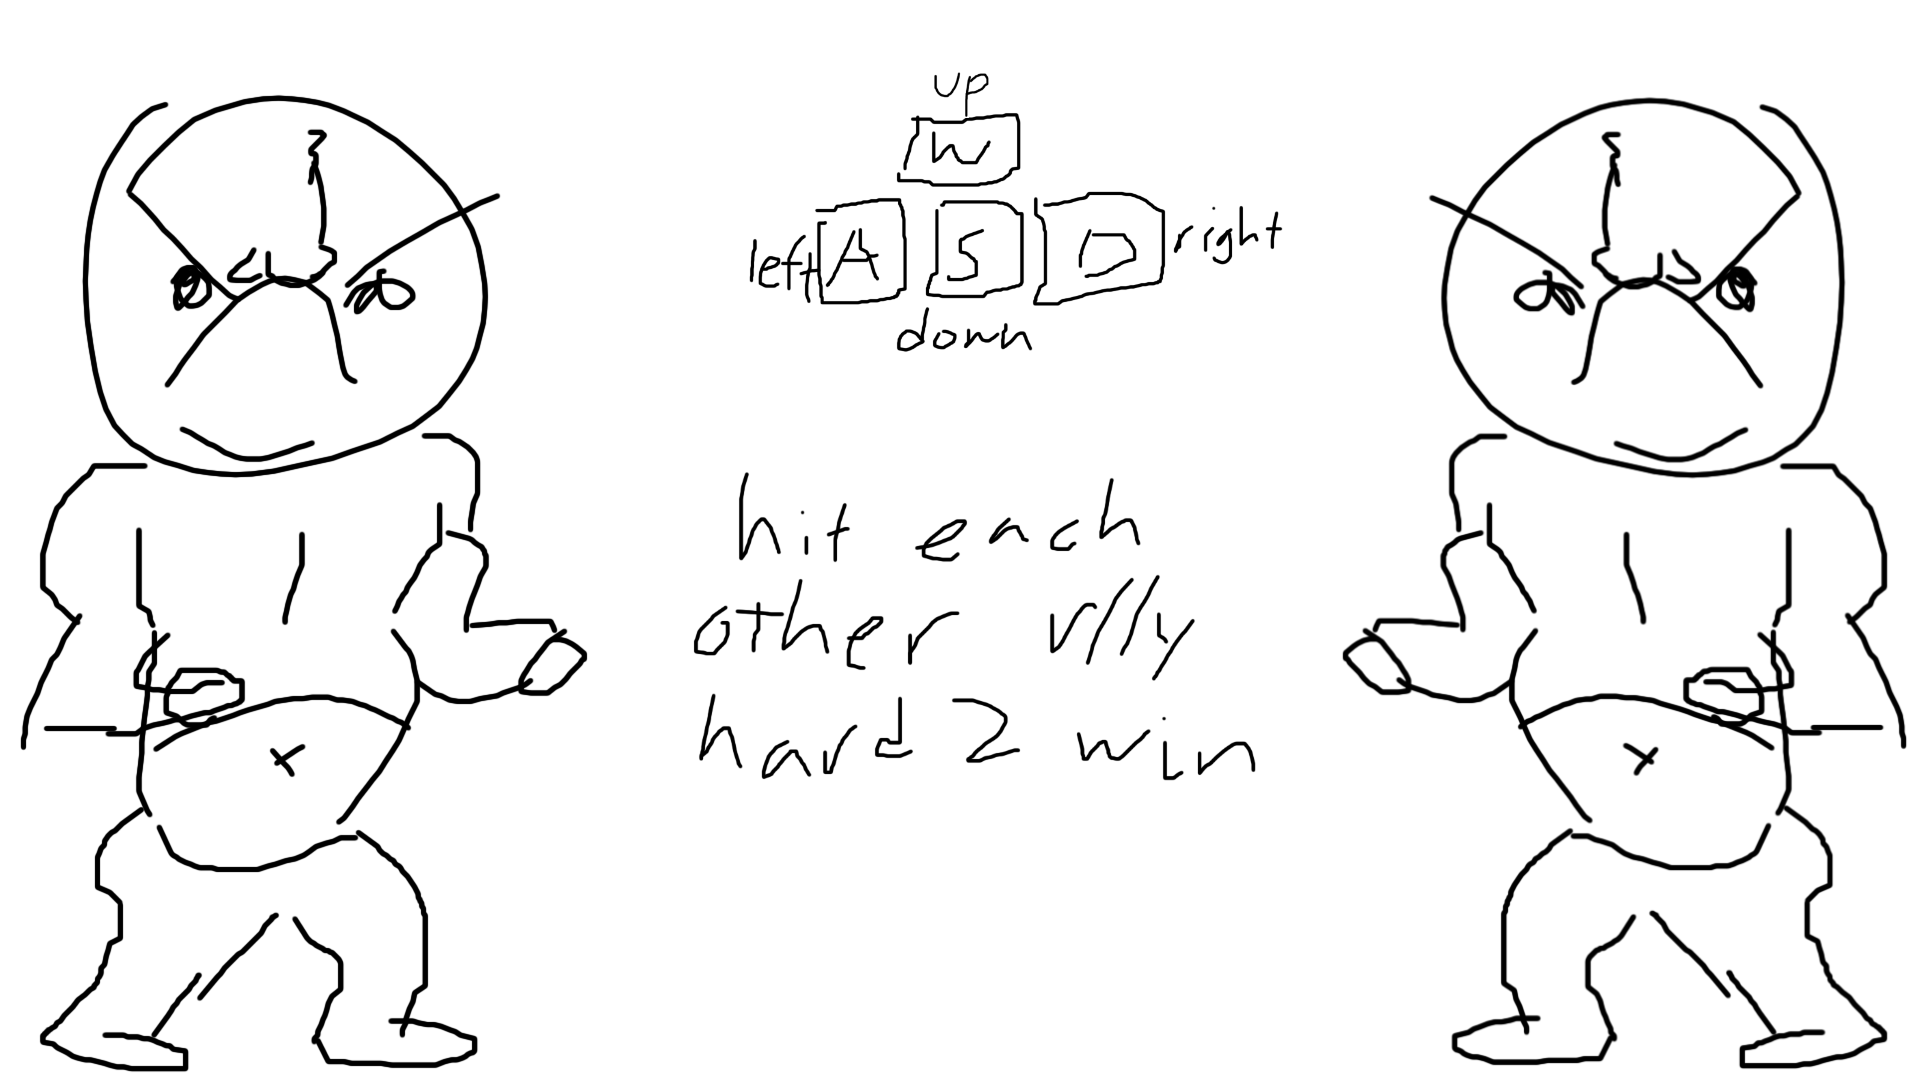
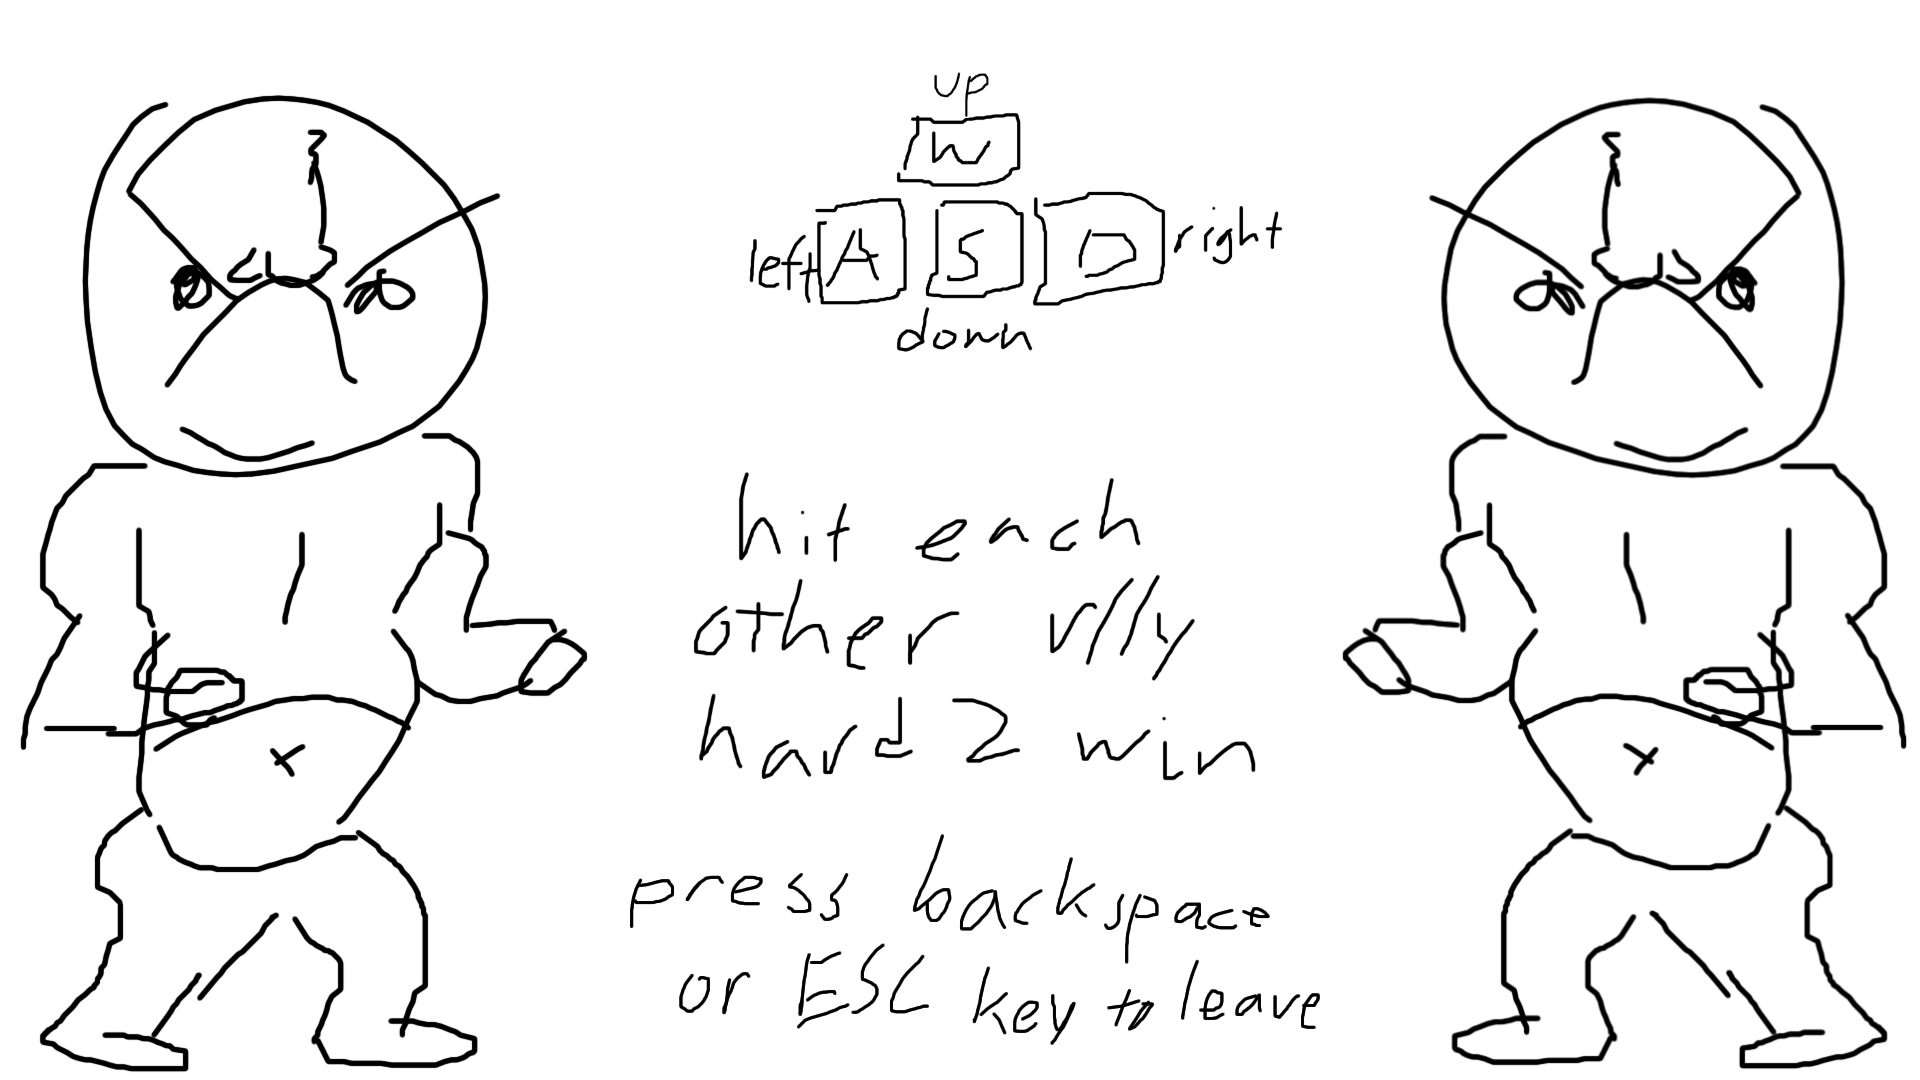
instruction screen closes properly

diff --git a/source code/InstructionScreen.java b/source code/InstructionScreen.java
@@ -5,13 +5,19 @@ import java.awt.Graphics;
 import java.awt.Image;
 import javax.swing.ImageIcon;
 
+import java.awt.event.KeyEvent;
+import java.awt.event.KeyListener;
+
 class InstructionScreen extends JFrame {
     private static int screenHeight;
     private static int screenWidth;
     private static double scaleRatio;
+    private InstructionScreen thisFrame;
     
     InstructionScreen() {
         super("Instructions");
+        
+        this.thisFrame = this;
         
         screenHeight = Toolkit.getDefaultToolkit().getScreenSize().height;
         screenWidth = Toolkit.getDefaultToolkit().getScreenSize().width;
@@ -20,10 +26,11 @@ class InstructionScreen extends JFrame {
         this.setSize(screenWidth , screenHeight);
         this.setResizable(false);
         this.setLocationRelativeTo(null);
-        this.setDefaultCloseOperation(JFrame.EXIT_ON_CLOSE);
+        this.setDefaultCloseOperation(JFrame.DISPOSE_ON_CLOSE);
         
         DecoratedPanel mainPanel = new DecoratedPanel("resources/menu/instruction_screen.png");
         this.add(mainPanel);
+        this.addKeyListener(new ExitListener());
         
         this.setVisible(true);
     }
@@ -40,6 +47,20 @@ class InstructionScreen extends JFrame {
             super.paintComponent(g);
             Image pic = new ImageIcon(picAddress).getImage();
             g.drawImage(pic , 0 , 0 , screenWidth , screenHeight , null); 
+        }
+    }
+    
+    private class ExitListener implements KeyListener {
+        public void keyTyped(KeyEvent e) {
+        }
+        
+        public void keyReleased(KeyEvent e) {
+        }
+        
+        public void keyPressed(KeyEvent e) {
+            if (e.getKeyCode() == KeyEvent.VK_ESCAPE || e.getKeyCode() == KeyEvent.VK_BACK_SPACE) {
+                thisFrame.dispose();
+            }
         }
     }
 }

diff --git a/source code/GameFrame.java b/source code/GameFrame.java
@@ -40,6 +40,8 @@ class GameFrame extends JFrame {
    static double scaleRatio;
    static GameAreaPanel gamePanel;
    
+   GameFrame currentGameFrame;
+   
    Floor ground;
    Character player, player2;
    
@@ -47,9 +49,11 @@ class GameFrame extends JFrame {
   GameFrame() { 
     super("My Game");  
     // Set the frame to full screen 
-    this.setDefaultCloseOperation(JFrame.EXIT_ON_CLOSE);
+    this.setDefaultCloseOperation(JFrame.DISPOSE_ON_CLOSE);
     
     this.scaleRatio = (double) Toolkit.getDefaultToolkit().getScreenSize().height / 1080;
+    
+    this.currentGameFrame = this;
     
     this.player = new Character(200,579,200,100, scaleRatio, 'r', "resources/characters/pikachu");
     this.player2 = new Character(1600,579,200,100, scaleRatio, 'l', "resources/characters/lisa");
@@ -108,7 +112,7 @@ class GameFrame extends JFrame {
       Font font = new Font("Arial", Font.PLAIN, (int)(scaleRatio * 48));
       super.paintComponent(g); //removed to keep transparent panel
       Image pic = new ImageIcon("resources/background.png").getImage();
-      //g.drawImage(pic,0,0, null);     
+      g.drawImage(pic,0,0, null);     
       setDoubleBuffered(true);
       clock.update();
       player.update(clock.getElapsedTime());
@@ -183,7 +187,7 @@ class GameFrame extends JFrame {
         }
         if (e.getKeyCode() == KeyEvent.VK_ESCAPE) {  //If ESC is pressed
             System.out.println("YIKES ESCAPE KEY!"); //close frame & quit
-            System.exit(0);
+            currentGameFrame.dispose();
           }
       }   
       
